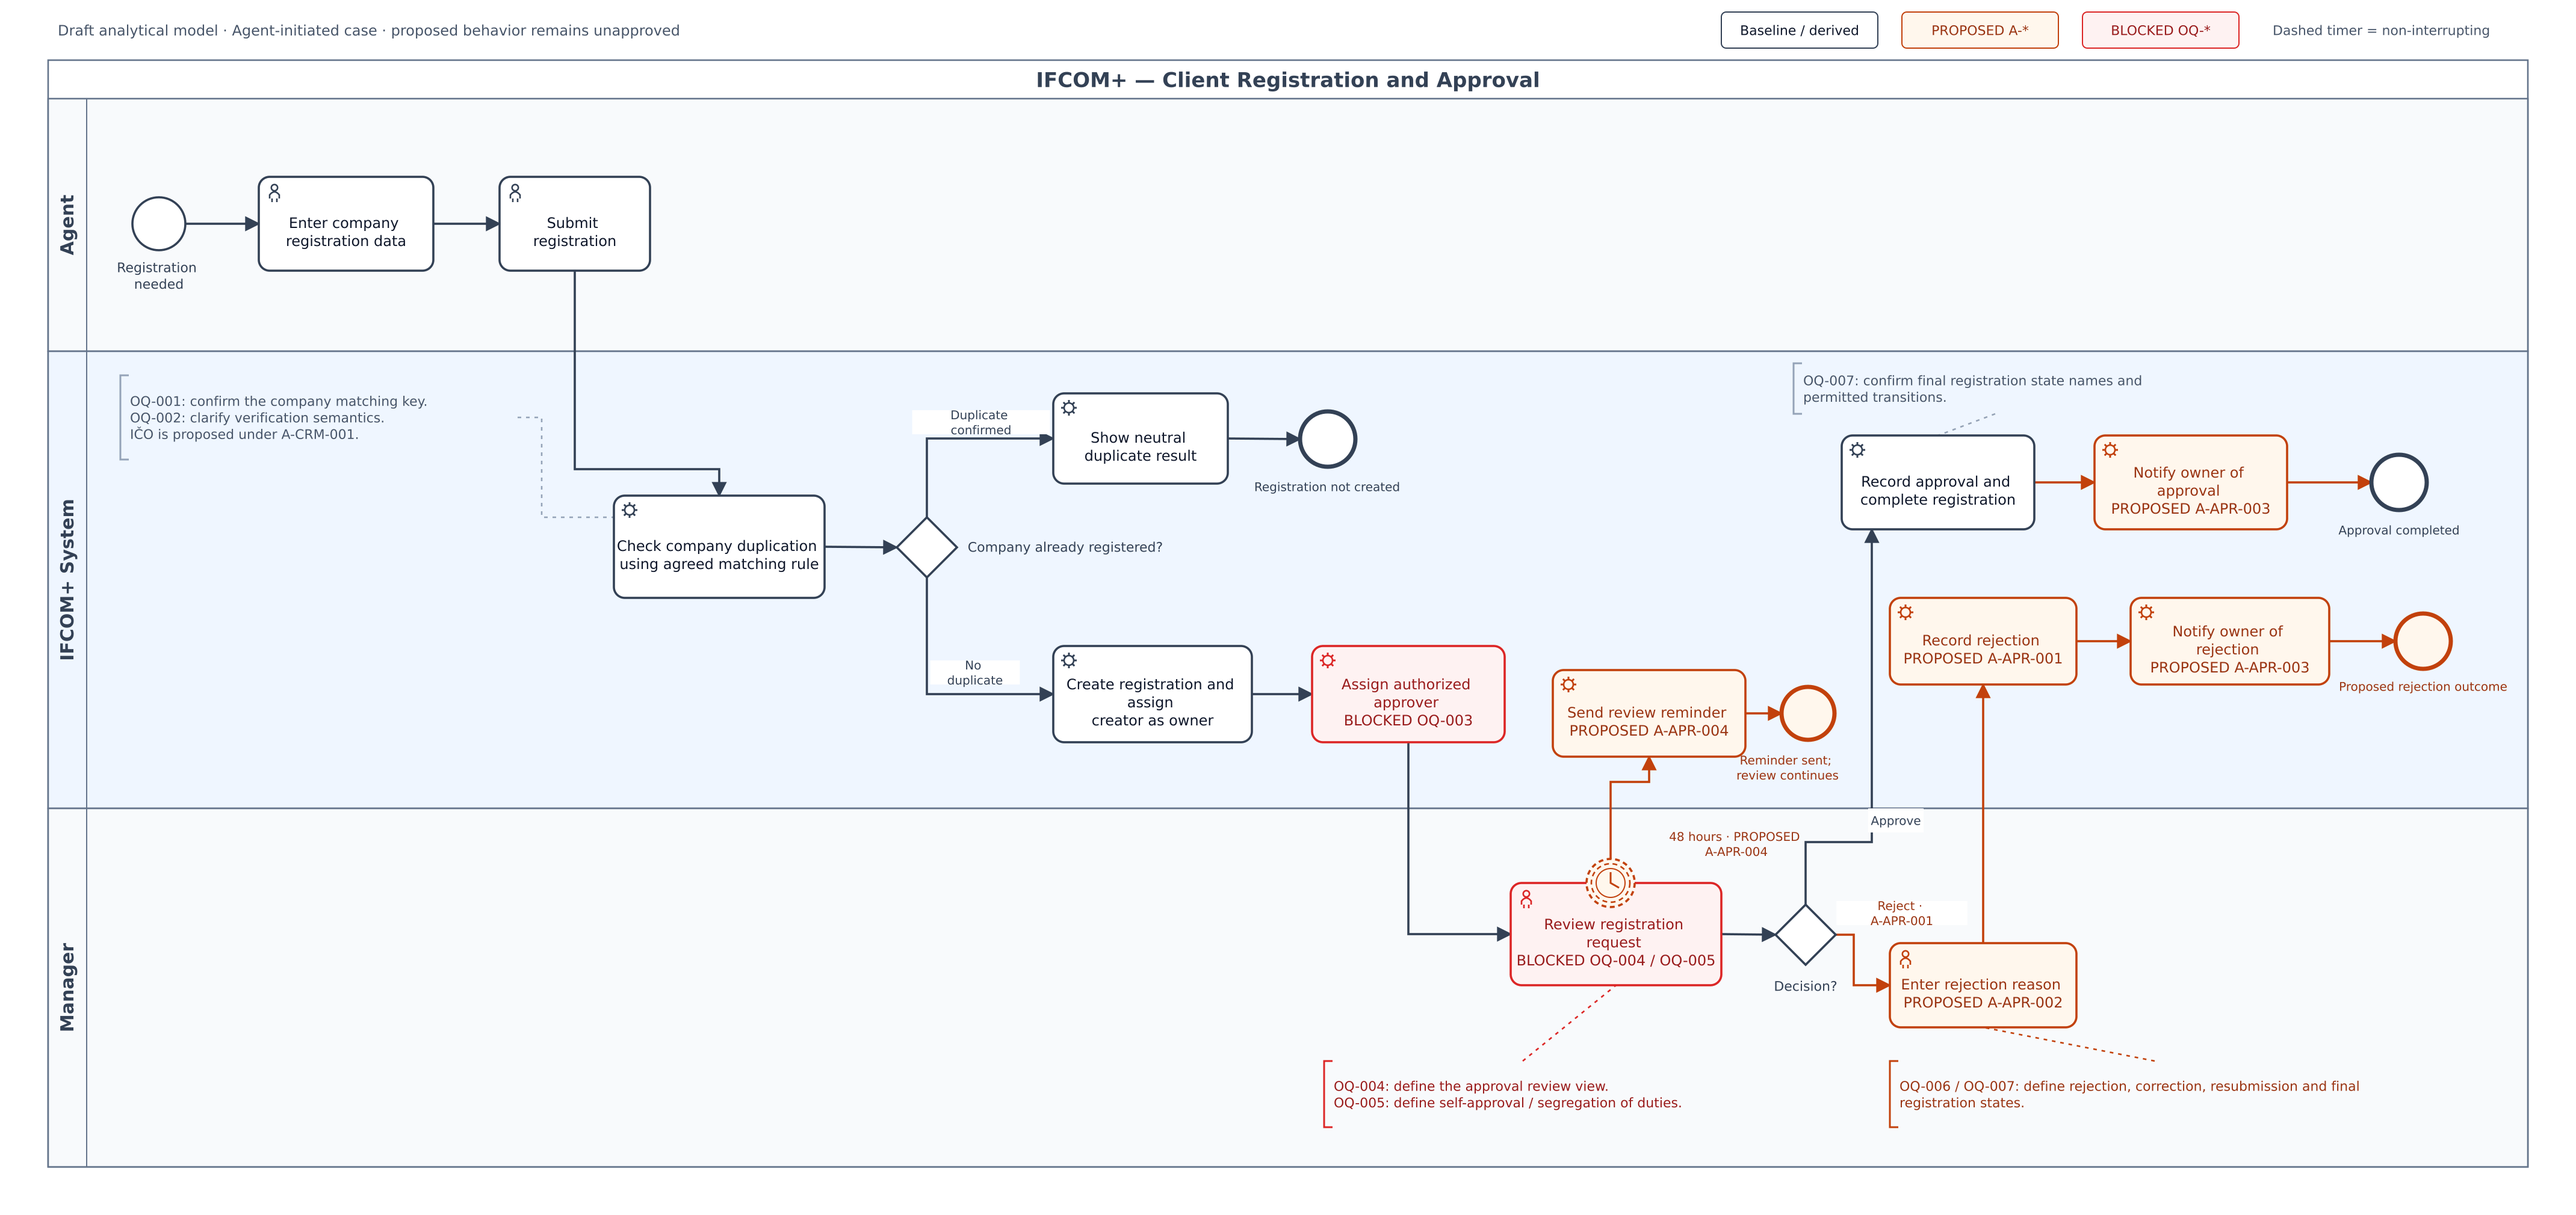
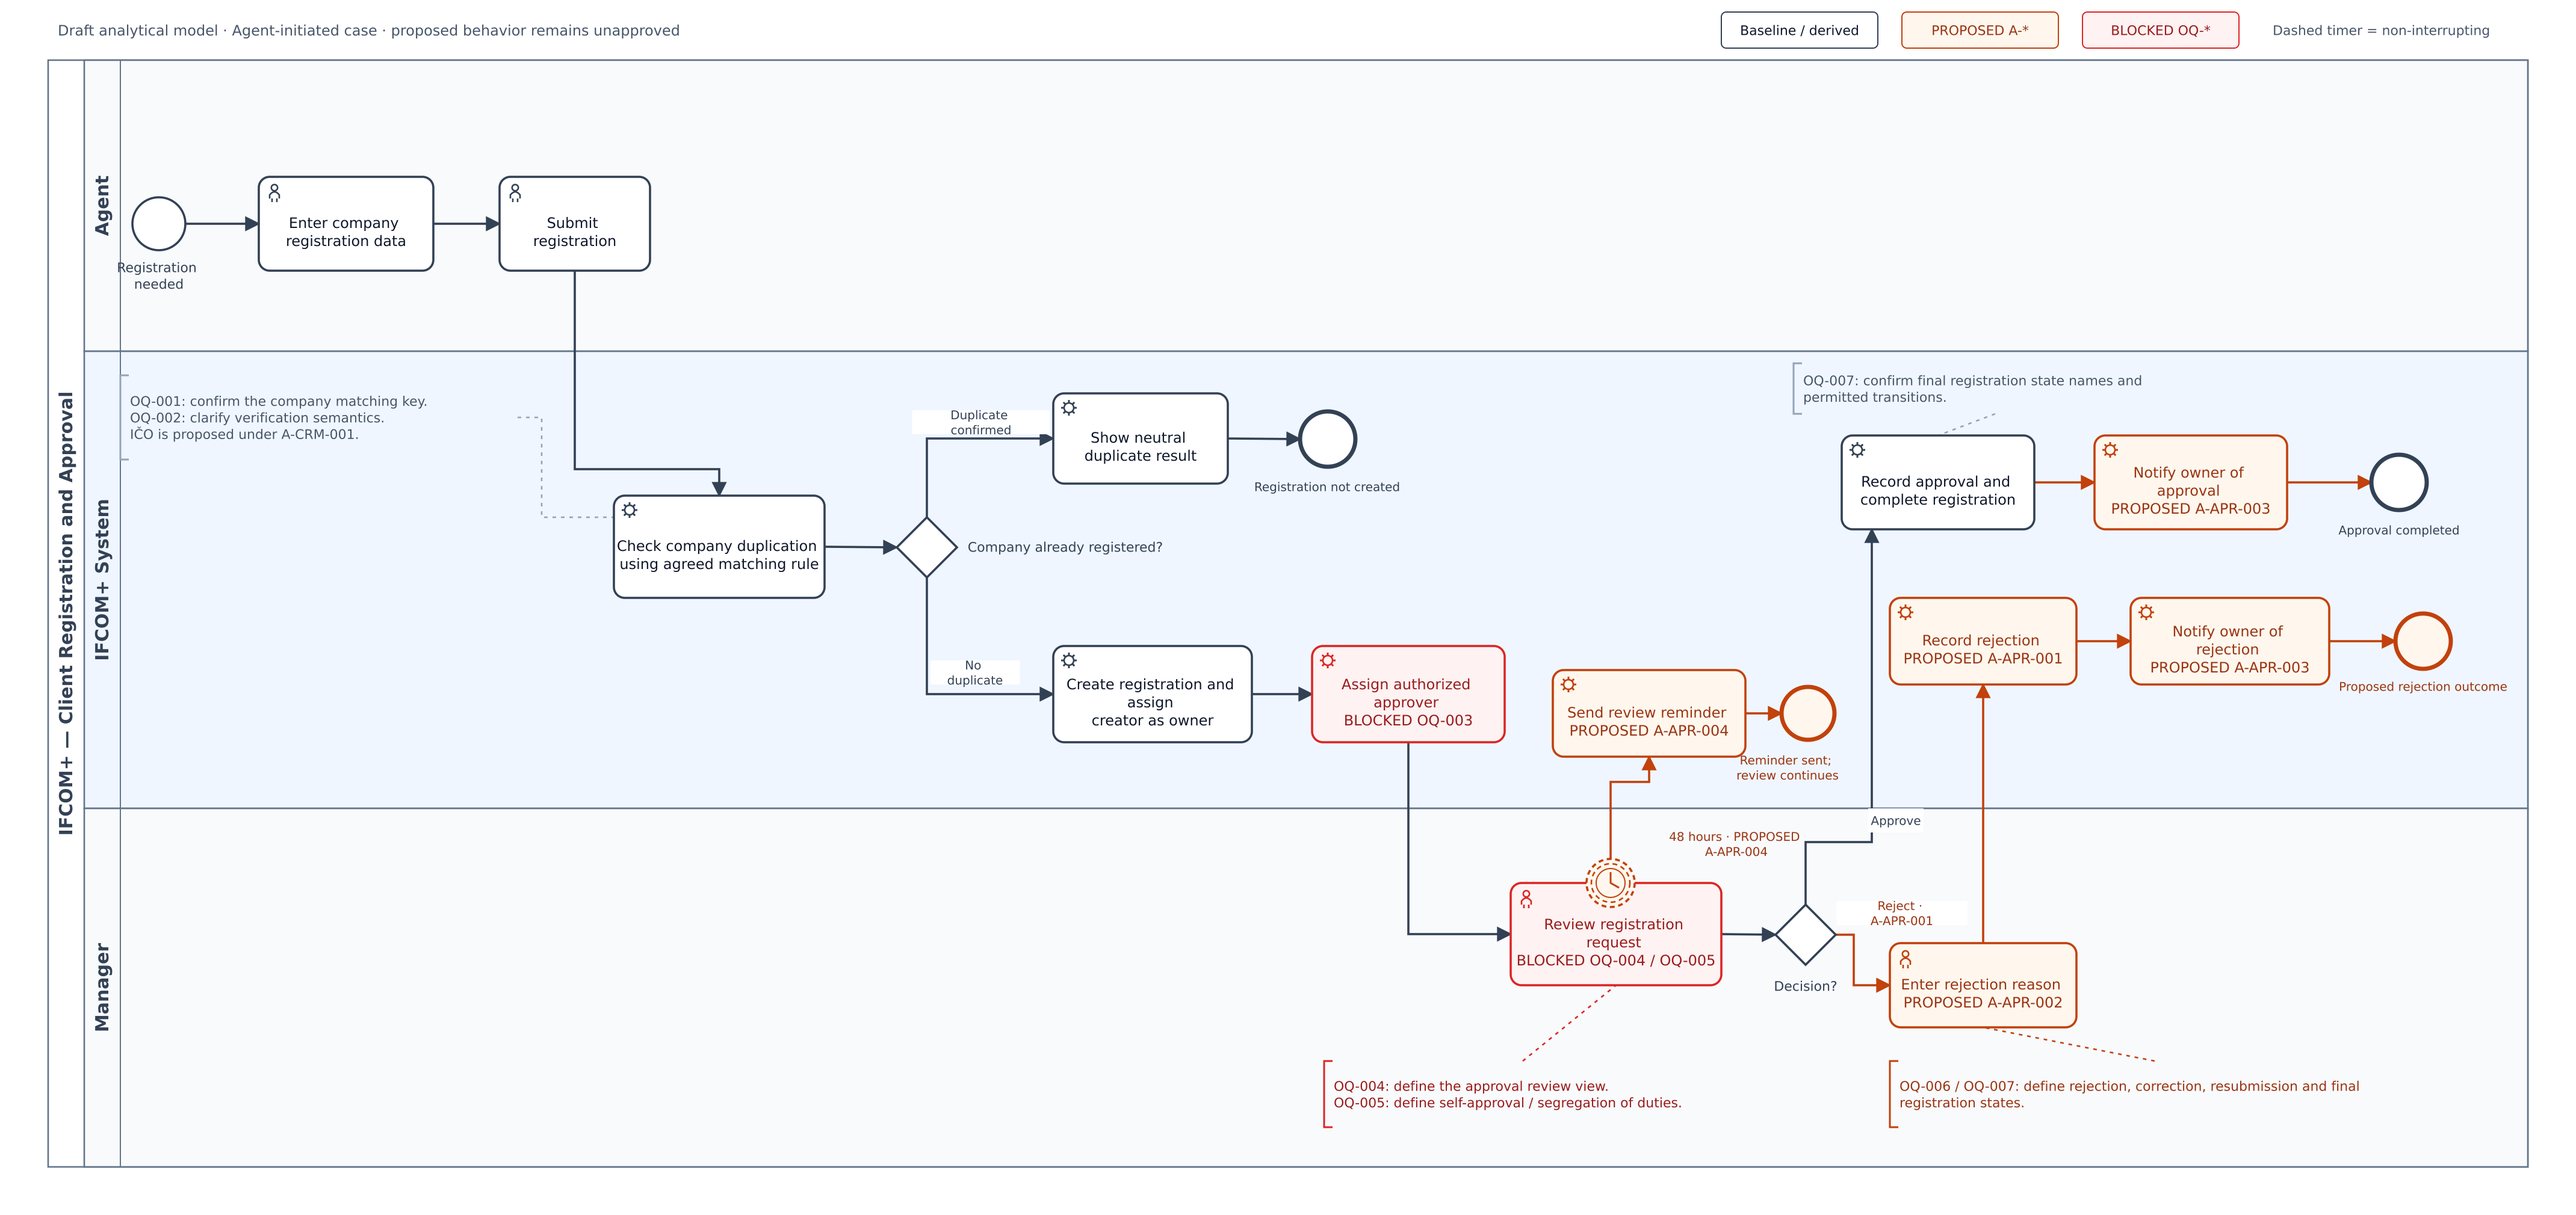
fix: separate Camunda pool and lane title areas

diff --git a/diagrams/bpmn/README.md b/diagrams/bpmn/README.md
@@ -10,12 +10,12 @@
 
 | File | Role |
 |---|---|
-| [client-registration-approval.drawio](client-registration-approval.drawio) | Primary visual editing source for diagrams.net |
-| [client-registration-approval.bpmn](client-registration-approval.bpmn) | Matching BPMN 2.0 semantic representation for BPMN-compatible tools; `isExecutable="false"` |
+| [client-registration-approval.bpmn](client-registration-approval.bpmn) | Primary BPMN 2.0 editing source for Camunda Modeler; `isExecutable="false"` |
+| [client-registration-approval.drawio](client-registration-approval.drawio) | Matching diagrams.net copy retained for interchange |
 | [client-registration-approval.svg](client-registration-approval.svg) | Scalable preview of the reviewed diagram |
 | [client-registration-approval.png](client-registration-approval.png) | Raster preview of the same diagram |
 
-Edit the `.drawio` file first. Keep the `.bpmn` representation synchronized with its activities, lane assignments, connections, event semantics and evidence labels. The files do not synchronize automatically. Previews are generated artifacts, not separate process definitions.
+Edit the `.bpmn` file in Camunda Modeler first. The author selected Camunda for further modeling. Keep the secondary `.drawio` copy synchronized with the activities, lane assignments, connections, event semantics and evidence labels. The files do not synchronize automatically. Previews are generated artifacts, not separate process definitions.
 
 ## Process Boundary
 
@@ -41,6 +41,8 @@ These omissions are abstraction boundaries, not claims that the corresponding re
 | Manager | Reviews the assigned request and makes an authorized decision |
 
 All three lanes are siblings inside one pool. Solid sequence flows may cross between these lanes. There are no message flows inside this pool.
+
+The pool has its own 30-pixel title strip on the left. Lane bounds begin to the right of that strip and have their own separate title strips. In BPMN diagram interchange, the pool and lanes must not share the same left coordinate for this layout; otherwise Camunda renders their labels on top of each other. This geometry was corrected after the author's Camunda import screenshot exposed the overlap. Activities and process connections were preserved.
 
 White activities show source-backed or derived behavior. Orange activities carry `PROPOSED A-*` labels. Red activities identify an unresolved policy dependency with `BLOCKED OQ-*`. These colors are explanatory conventions; they do not change BPMN execution semantics.
 
@@ -108,15 +110,15 @@ The current reconciliation makes sequence flows and activity borders solid, atta
 
 ## Editing Checklist
 
-1. Open the `.drawio` file in diagrams.net and edit the visual source.
+1. Open the `.bpmn` file in Camunda Modeler and edit the primary source.
 2. Preserve the pool, three sibling lanes, event types and the explicit proposal/question labels.
 3. Keep every sequence flow attached to its source and target. Keep notes connected with associations.
-4. Update the `.bpmn` representation when nodes, flows, lane ownership, labels or timer behavior change.
+4. Synchronize the secondary `.drawio` copy when nodes, flows, lane ownership, labels or timer behavior change.
 5. Check duplicate, approval, proposed rejection and reminder paths. The reminder must not cancel or restart review.
 6. Export updated SVG and PNG previews from the reviewed diagram. Inspect the exports for missing labels and overlapping connectors.
 7. Check the guide, root README, related requirements and relative links before committing the complete set.
 
-For this revision, structural XML checks, flow/lane equivalence, reference checks, image decoding and visual preview inspection were performed. The model was not deployed to a workflow engine; external modeler import is not claimed as tested.
+For this revision, structural XML checks, flow/lane equivalence, reference checks, image decoding and visual preview inspection were performed. The author imported the previous file into Camunda and reported overlapping pool/lane labels; the corrected file has separate title-strip bounds and unchanged process semantics. A subsequent Camunda re-import has not yet been verified. The model was not deployed to a workflow engine.
 
 ## Next Modeling Step
 

diff --git a/README.md b/README.md
@@ -46,7 +46,7 @@ The diagram shows the Agent-initiated case in one pool with three lanes: Agent, 
 
 Rejection, rejection reasons, owner notifications and the 48-hour reminder remain proposals under `A-APR-001`–`A-APR-004`. The timer is non-interrupting: it sends a reminder while review continues. IČO remains a proposed company key. Registration state names remain open.
 
-The `.drawio` file is the primary visual editing source. The `.bpmn` file is a matching, non-executable semantic representation; it does not synchronize automatically. Both previews show the same reviewed model. See the [guide](diagrams/bpmn/README.md) for scope boundaries and maintenance instructions.
+The `.bpmn` file is the primary editing source for Camunda Modeler and remains non-executable. The `.drawio` file is a secondary copy for diagrams.net; it does not synchronize automatically. Both previews show the same reviewed model. See the [guide](diagrams/bpmn/README.md) for scope boundaries and maintenance instructions.
 
 ## Key Findings
 
